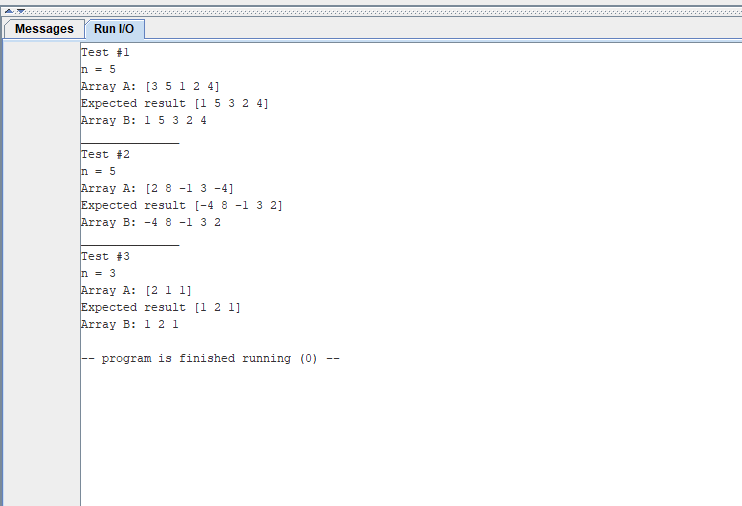
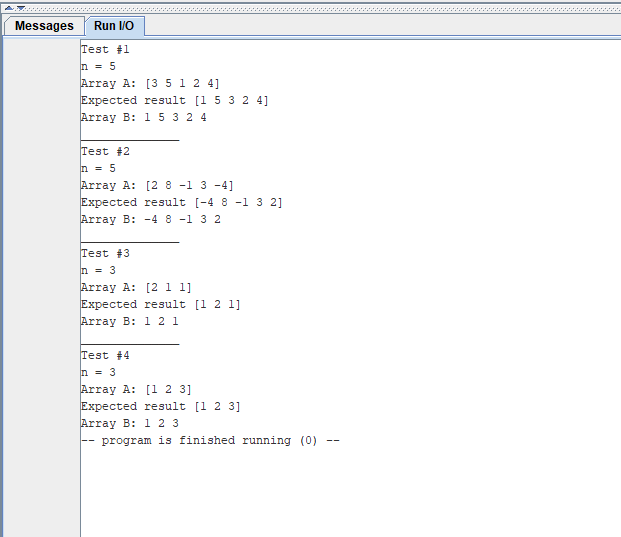
IHW1 v7

Changed region(s): [[0.0, 0.0, 1.0, 0.83], [0.3671, 0.5632, 0.3977, 0.5929]]

diff --git a/README.md b/README.md
@@ -4,11 +4,17 @@
 <font size = 4>  Сформировать массив B из элементов массива A перестановкой местами минимального и первого элементов.</font>
 
 ## _Тесты:_ 
+Идея программы состоит в том, что мы должны взять первый и минимальный элемент и поменять их местами. 
+* Если у нас несколько минимальных элементов, то мы меняем только первый.
+* Если первый элемент уже минимальный, то мы ничего не меняем.
+* Программа работает с положительными, отрицательными числами и нулем.
+
 | Ввод             	| Вывод       	|
 |------------------	|-------------	|
 | 5 <br>3 5 1 2 4  	| 1 5 3 2 4   	|
 | 5<br>2 8 -1 3 -4 	| -4 8 -1 3 2 	|
-| 3<br>2 1 1       	| 1 2 1       	|  
+| 3<br>2 1 1       	| 1 2 1       	|
+| 3<br>1 2 3       	| 1 2 3       	|  
 
 ## _Результаты тестов:_
 ![Alt text](image-1.png)
